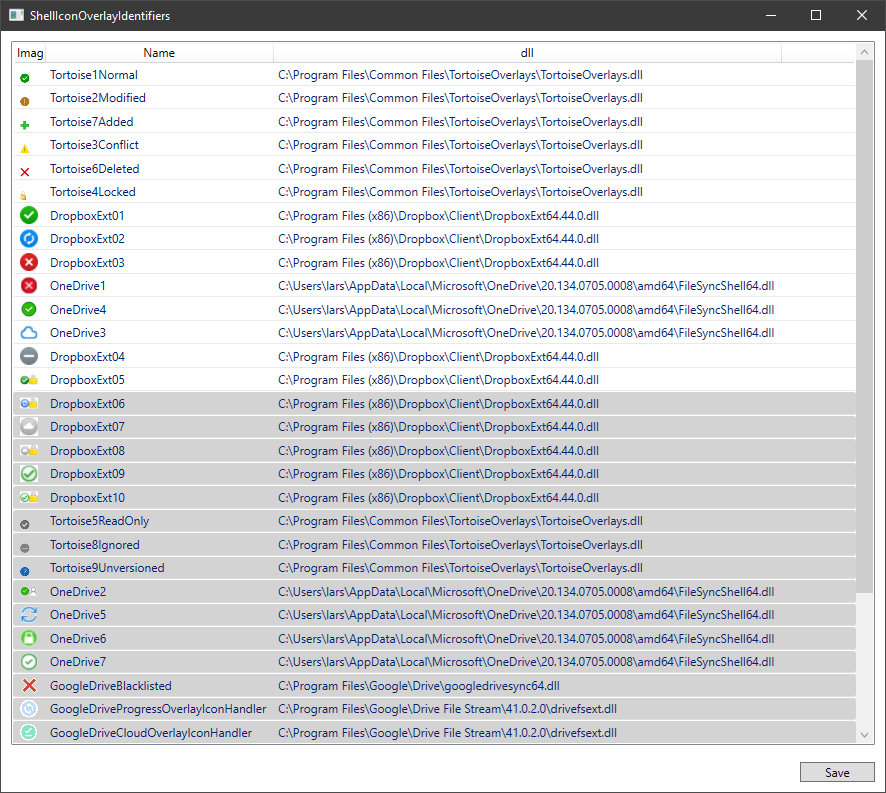
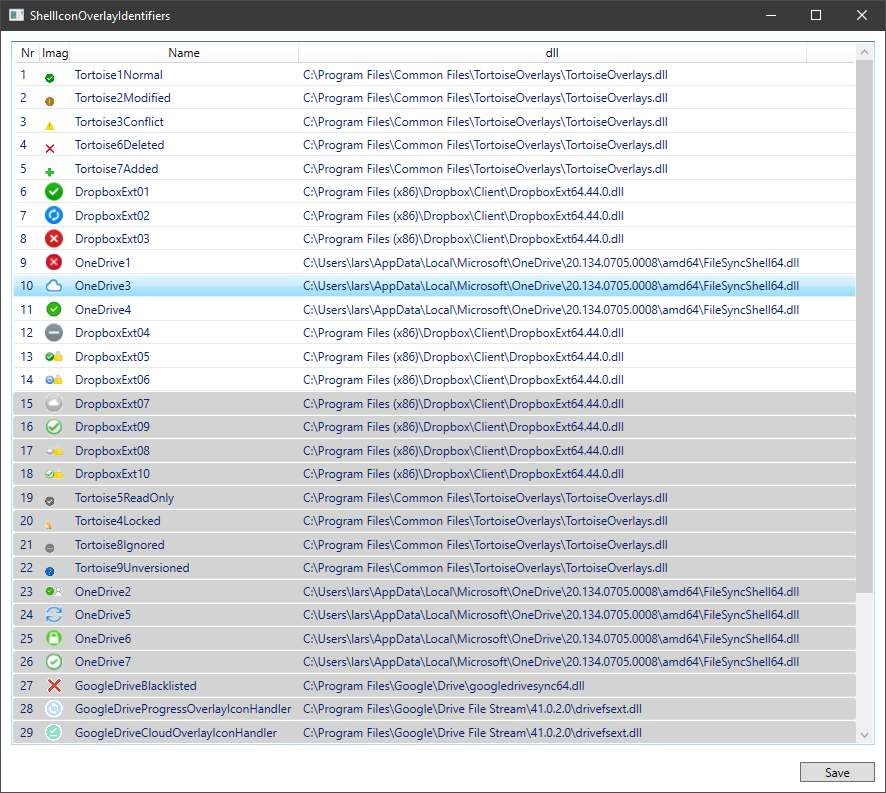
Added a INotifyPropertyChanged

Changed region(s): [[0.0, 0.0605, 0.9752, 0.9382]]

diff --git a/MainWindow.xaml b/MainWindow.xaml
@@ -49,6 +49,7 @@
             <ListView.View>
 
                 <GridView>
+                    <GridViewColumn DisplayMemberBinding="{Binding nr}" Header="Nr" />
                     <GridViewColumn Header="Image" Width="30">
                         <GridViewColumn.CellTemplate>
                             <DataTemplate>

diff --git a/MainWindow.xaml.cs b/MainWindow.xaml.cs
@@ -1,6 +1,7 @@
 using System;
 using System.Collections.Generic;
 using System.Collections.ObjectModel;
+using System.ComponentModel;
 using System.IO;
 using System.Linq;
 using System.Security.Principal;
@@ -11,10 +12,21 @@ using Microsoft.Win32;
 namespace ShellIconOverlayIdentifierSorter
 {
     // Stores all the data from Computer\HKEY_LOCAL_MACHINE\SOFTWARE\Microsoft\Windows\CurrentVersion\Explorer\ShellIconOverlayIdentifiers
-    internal class overlay
+    internal class overlay : INotifyPropertyChanged
     {
+        private int _nr;
+
         // Row number.
-        public int nr { get; set; }
+        public int nr
+        {
+            get => _nr;
+            set
+            {
+                _nr = value;
+                this.NotifyPropertyChanged("nr");
+                this.NotifyPropertyChanged("active");
+            }
+        }
 
         // Keyname. This need to match the filename if you want an icon
         public string name { get; set; }
@@ -30,6 +42,14 @@ namespace ShellIconOverlayIdentifierSorter
 
         // Grays out the background for the rest of the rows
         public bool active => nr > 14;
+
+        public event PropertyChangedEventHandler PropertyChanged;
+
+        public void NotifyPropertyChanged(string propName)
+        {
+            if (this.PropertyChanged != null)
+                this.PropertyChanged(this, new PropertyChangedEventArgs(propName));
+        }
     }
 
     // Stores whatever icons and pictures it can find in the "icons" folder
@@ -59,18 +79,23 @@ namespace ShellIconOverlayIdentifierSorter
                 Application.Current.Shutdown();
             }
 
-            var files = Directory.GetFiles("icons", "*", SearchOption.AllDirectories);
+            GetIconFiles();
 
-            foreach (var file1 in files)
+            GetRegistryKeys();
+
+            listView.ItemsSource = _overlayList;
+
+            // Enable drag and drop
+            _dragMgr = new ListViewDragDropManager<overlay>(listView)
             {
-                var i = new icon
-                {
-                    name = Path.GetFileNameWithoutExtension(file1),
-                    image = new BitmapImage(new Uri(Path.GetFullPath(file1)))
-                };
-                _iconList.Add(i);
-            }
+                ShowDragAdorner = true,
+                DragAdornerOpacity = 0.5
+            };
+            _dragMgr.ProcessDrop += dragMgr_ProcessDrop;
+        }
 
+        private void GetRegistryKeys()
+        {
             var nr = 0;
             var key = Registry.LocalMachine.OpenSubKey(
                 "SOFTWARE\\Microsoft\\Windows\\CurrentVersion\\Explorer\\ShellIconOverlayIdentifiers");
@@ -95,15 +120,21 @@ namespace ShellIconOverlayIdentifierSorter
 
                 _overlayList.Add(o);
             }
+        }
 
-            listView.ItemsSource = _overlayList;
+        private void GetIconFiles()
+        {
+            var files = Directory.GetFiles("icons", "*", SearchOption.AllDirectories);
 
-            _dragMgr = new ListViewDragDropManager<overlay>(listView)
+            foreach (var file1 in files)
             {
-                ShowDragAdorner = true,
-                DragAdornerOpacity = 0.5
-            };
-            _dragMgr.ProcessDrop += dragMgr_ProcessDrop;
+                var i = new icon
+                {
+                    name = Path.GetFileNameWithoutExtension(file1),
+                    image = new BitmapImage(new Uri(Path.GetFullPath(file1)))
+                };
+                _iconList.Add(i);
+            }
         }
 
         public bool IsElevated => new WindowsPrincipal(WindowsIdentity.GetCurrent()).IsInRole(WindowsBuiltInRole.Administrator);
